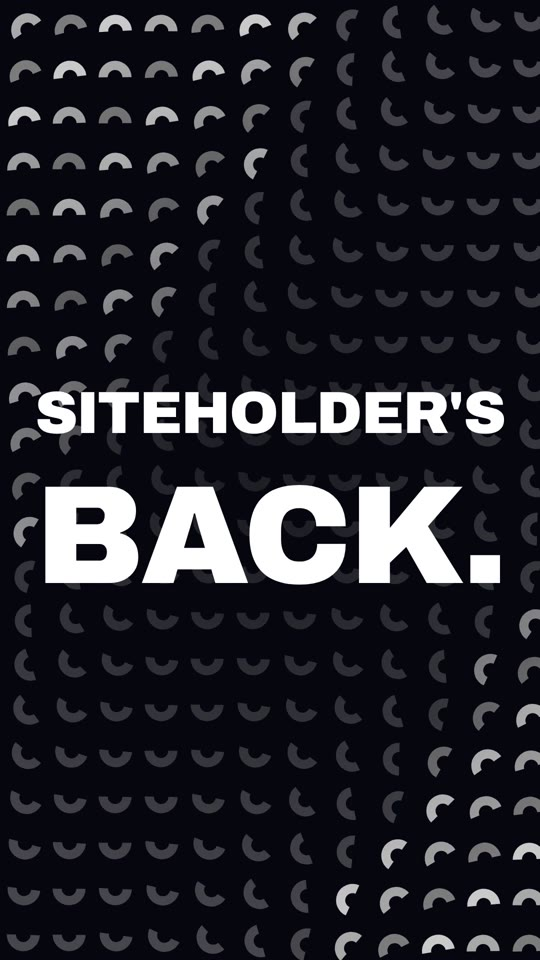
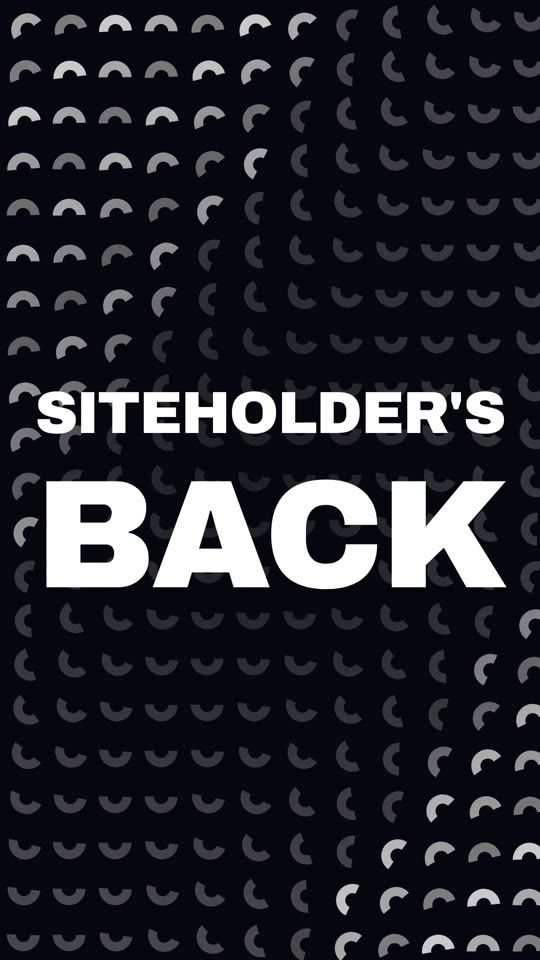
WIP: We're Back card play button + Instagram follow button (handle placeholder, not live)
Claude-Session: https://claude.ai/code/session_01QDeXRzMZRYqdDr3qHn7Hjp

Changed region(s): [[0.0593, 0.5, 0.9481, 0.625]]

diff --git a/index.html b/index.html
@@ -171,7 +171,14 @@ a.card:hover .listen { text-decoration: underline; }
 .hc-back .lede { font-size: 18px; color: #d8d8d8; margin: 0 0 24px; max-width: 420px; }
 .hc-back .btn { background: #fff; color: #111; border-color: #fff; }
 .hc-reel { display: none; justify-self: end; height: 340px; aspect-ratio: 9 / 16; border-radius: 14px; overflow: hidden; box-shadow: 0 20px 50px rgba(0,0,0,.6); }
+.hc-reel { position: relative; }
 .hc-reel img { width: 100%; height: 100%; object-fit: cover; display: block; }
+.hc-play { position: absolute; left: 50%; top: 79%; width: 64px; height: 64px; margin: -32px 0 0 -32px; border-radius: 50%; background: rgba(255,255,255,.92); box-shadow: 0 8px 24px rgba(0,0,0,.45); transition: transform .15s ease; }
+.hc-play::after { content: ""; position: absolute; left: 25px; top: 19px; border-style: solid; border-width: 13px 0 13px 21px; border-color: transparent transparent transparent #111; }
+.hc-reel:hover .hc-play, .hc-reel:focus-visible .hc-play { transform: scale(1.08); }
+.hc-back .actions { display: flex; flex-wrap: wrap; gap: 10px; }
+.hc-back .btn.ghost { background: transparent; color: #fff; border-color: rgba(255,255,255,.6); }
+.hc-back .btn.ghost:hover { border-color: #fff; }
 @media (min-width: 900px) { .hc-back { grid-template-columns: minmax(0, 1fr) 280px; gap: 40px; padding: 0 64px; min-height: 420px; } .hc-reel { display: block; } }
 .hc-nav { position: absolute; top: 50%; transform: translateY(-50%); width: 40px; height: 40px; border-radius: 50%; border: 1px solid var(--line); background: var(--surface); color: var(--ink); cursor: pointer; font-size: 18px; z-index: 3; display: none; }
 .hc-nav:hover { border-color: var(--ink); }
@@ -4490,6 +4497,7 @@ function artists() {
 function sortKey(n) { return n.toLowerCase().replace(/^the\s+/, ''); }
 function byName(a, b) { return sortKey(a).localeCompare(sortKey(b)); }
 
+var IG_URL = 'https://www.instagram.com/HANDLE_TBD/';
 function homeArtist() {
   /* photos only: an artist joins the rotation once a photo is added */
   var pool = HOME_ARTISTS.filter(function (x) { return x.img; });
@@ -4504,8 +4512,8 @@ function home() {
   return '<section class="hcar" aria-roledescription="carousel" aria-label="Highlights"><div class="hc-stage" id="hc-stage">' +
     '<div class="hc-slide hc-back" role="group" aria-roledescription="slide" aria-label="We\u2019re back"><canvas id="hc-bg" aria-hidden="true"></canvas><div>' +
     '<p class="eyebrow">We\u2019re back</p><h1>The party<br>isn\u2019t over.</h1><p class="lede">Siteholder\u2019s back. To destroy dancefloors.</p>' +
-    '<div class="actions"><a class="btn" href="#catalog">Browse the catalog</a></div></div>' +
-    '<div class="hc-reel"><img src="images/were-back-reel.jpg" alt="Still from the Siteholder We\u2019re Back reel" loading="lazy"></div></div>' +
+    '<div class="actions"><a class="btn" href="' + IG_URL + '" target="_blank" rel="noopener">Follow us on Instagram</a><a class="btn ghost" href="#catalog">Browse the catalog</a></div></div>' +
+    '<a class="hc-reel" href="' + IG_URL + '" target="_blank" rel="noopener" aria-label="Watch the We\u2019re Back reel on Instagram"><img src="images/were-back-reel.jpg" alt="Still from the Siteholder We\u2019re Back reel" loading="lazy"><span class="hc-play" aria-hidden="true"></span></a></div>' +
     '<div class="hc-slide hero" role="group" aria-roledescription="slide" aria-label="Latest release"><a class="art" href="#release-' + r.id + '" aria-label="' + r.title + '">' + cover(r) + '</a><div>' +
     '<p class="eyebrow">Latest release &middot; <span class="cat">' + catNo(r) + '</span></p><h1>' + r.artist + '</h1><p class="ttl">' + r.title + '</p><p class="sub">' + r.sub + '</p>' +
     '<div class="actions"><a class="btn solid" href="#release-' + r.id + '">Listen &amp; buy</a><a class="btn" href="#catalog">Browse the catalog</a></div></div></div>' +
